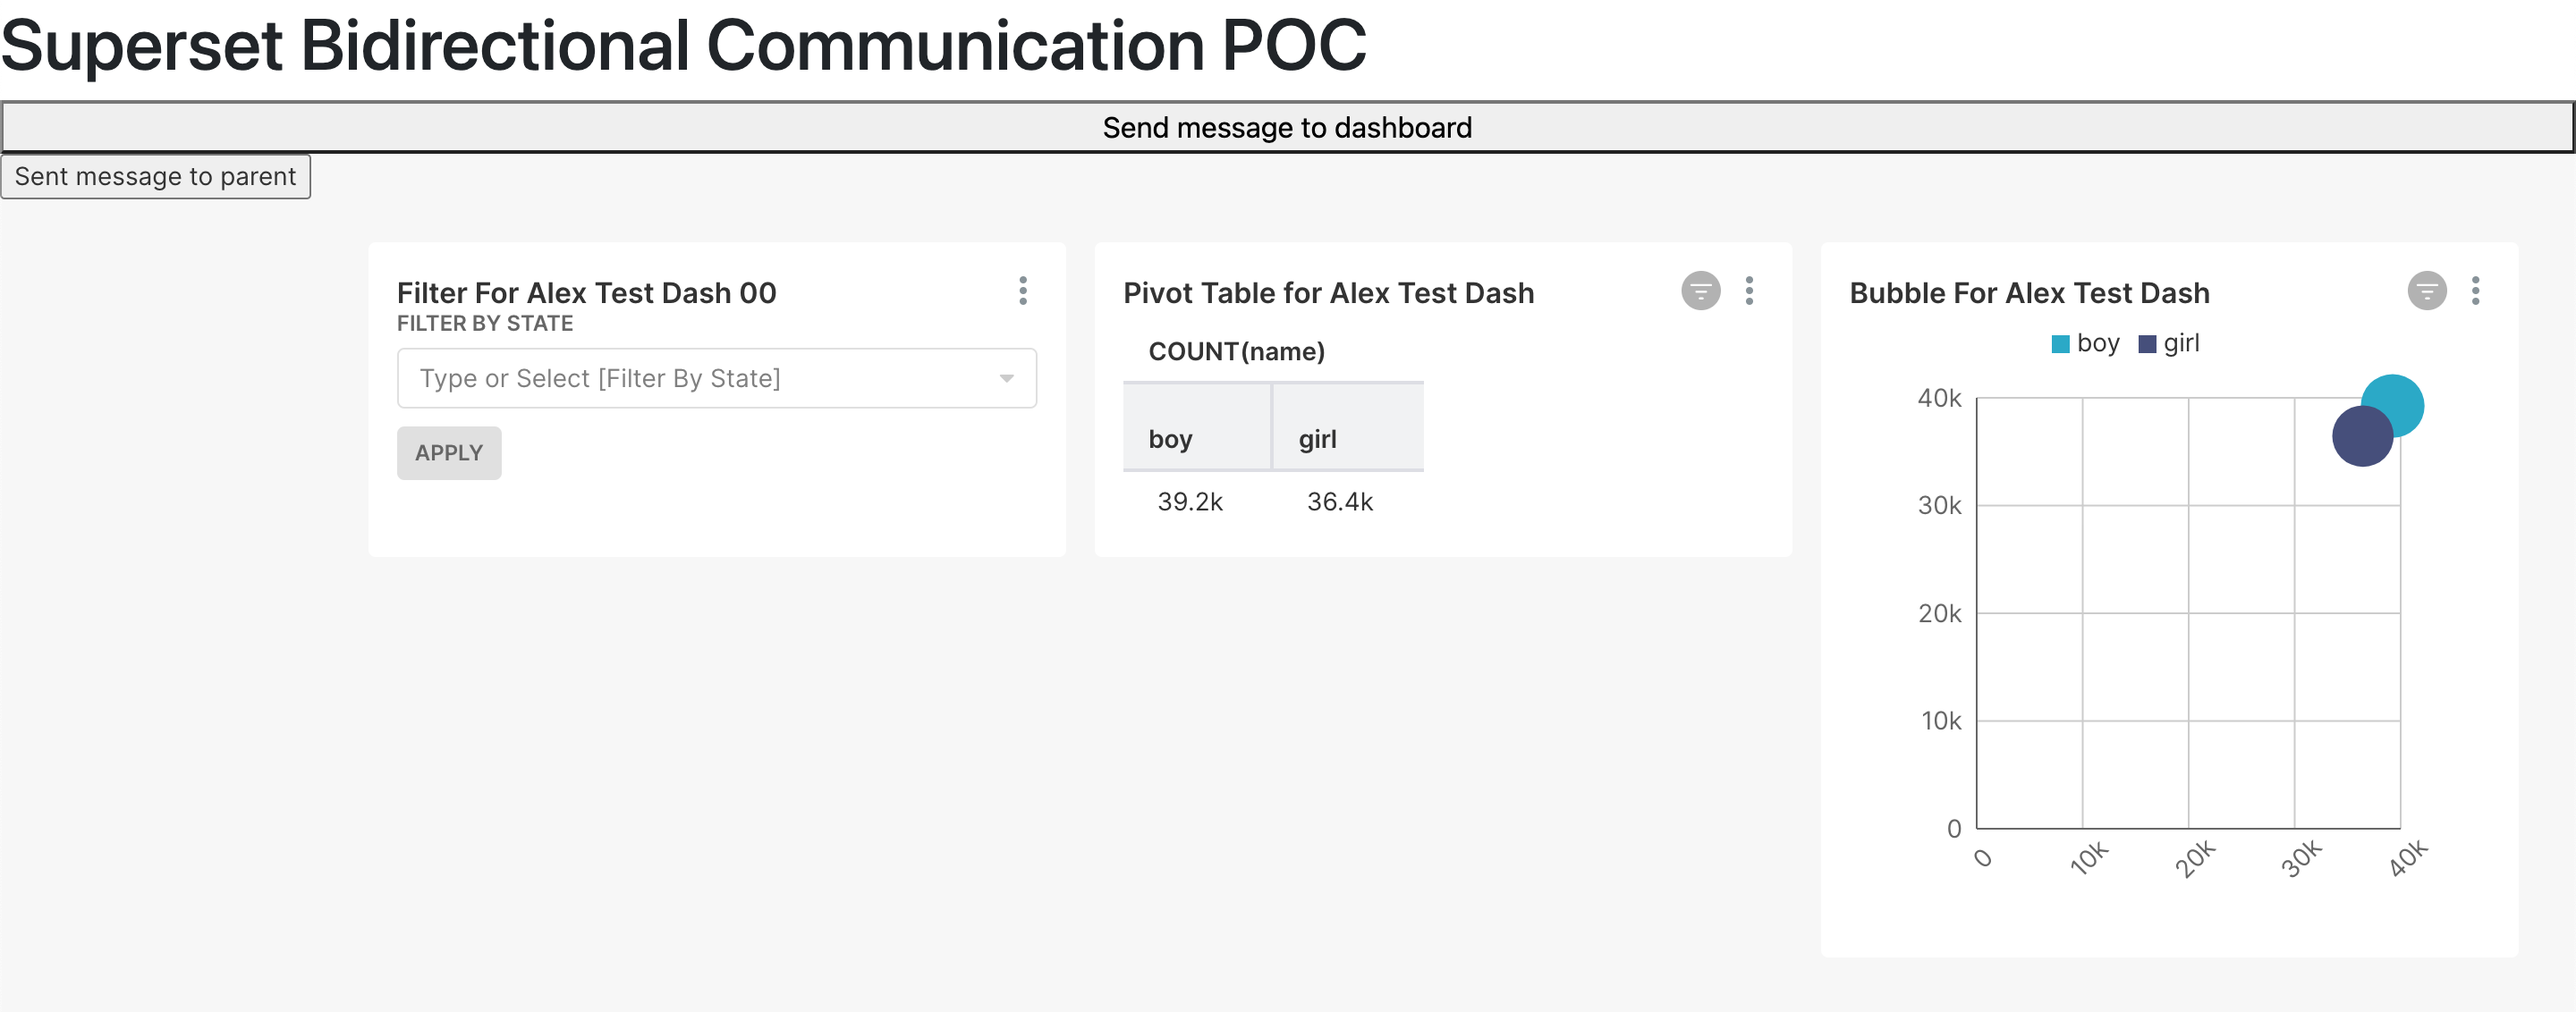
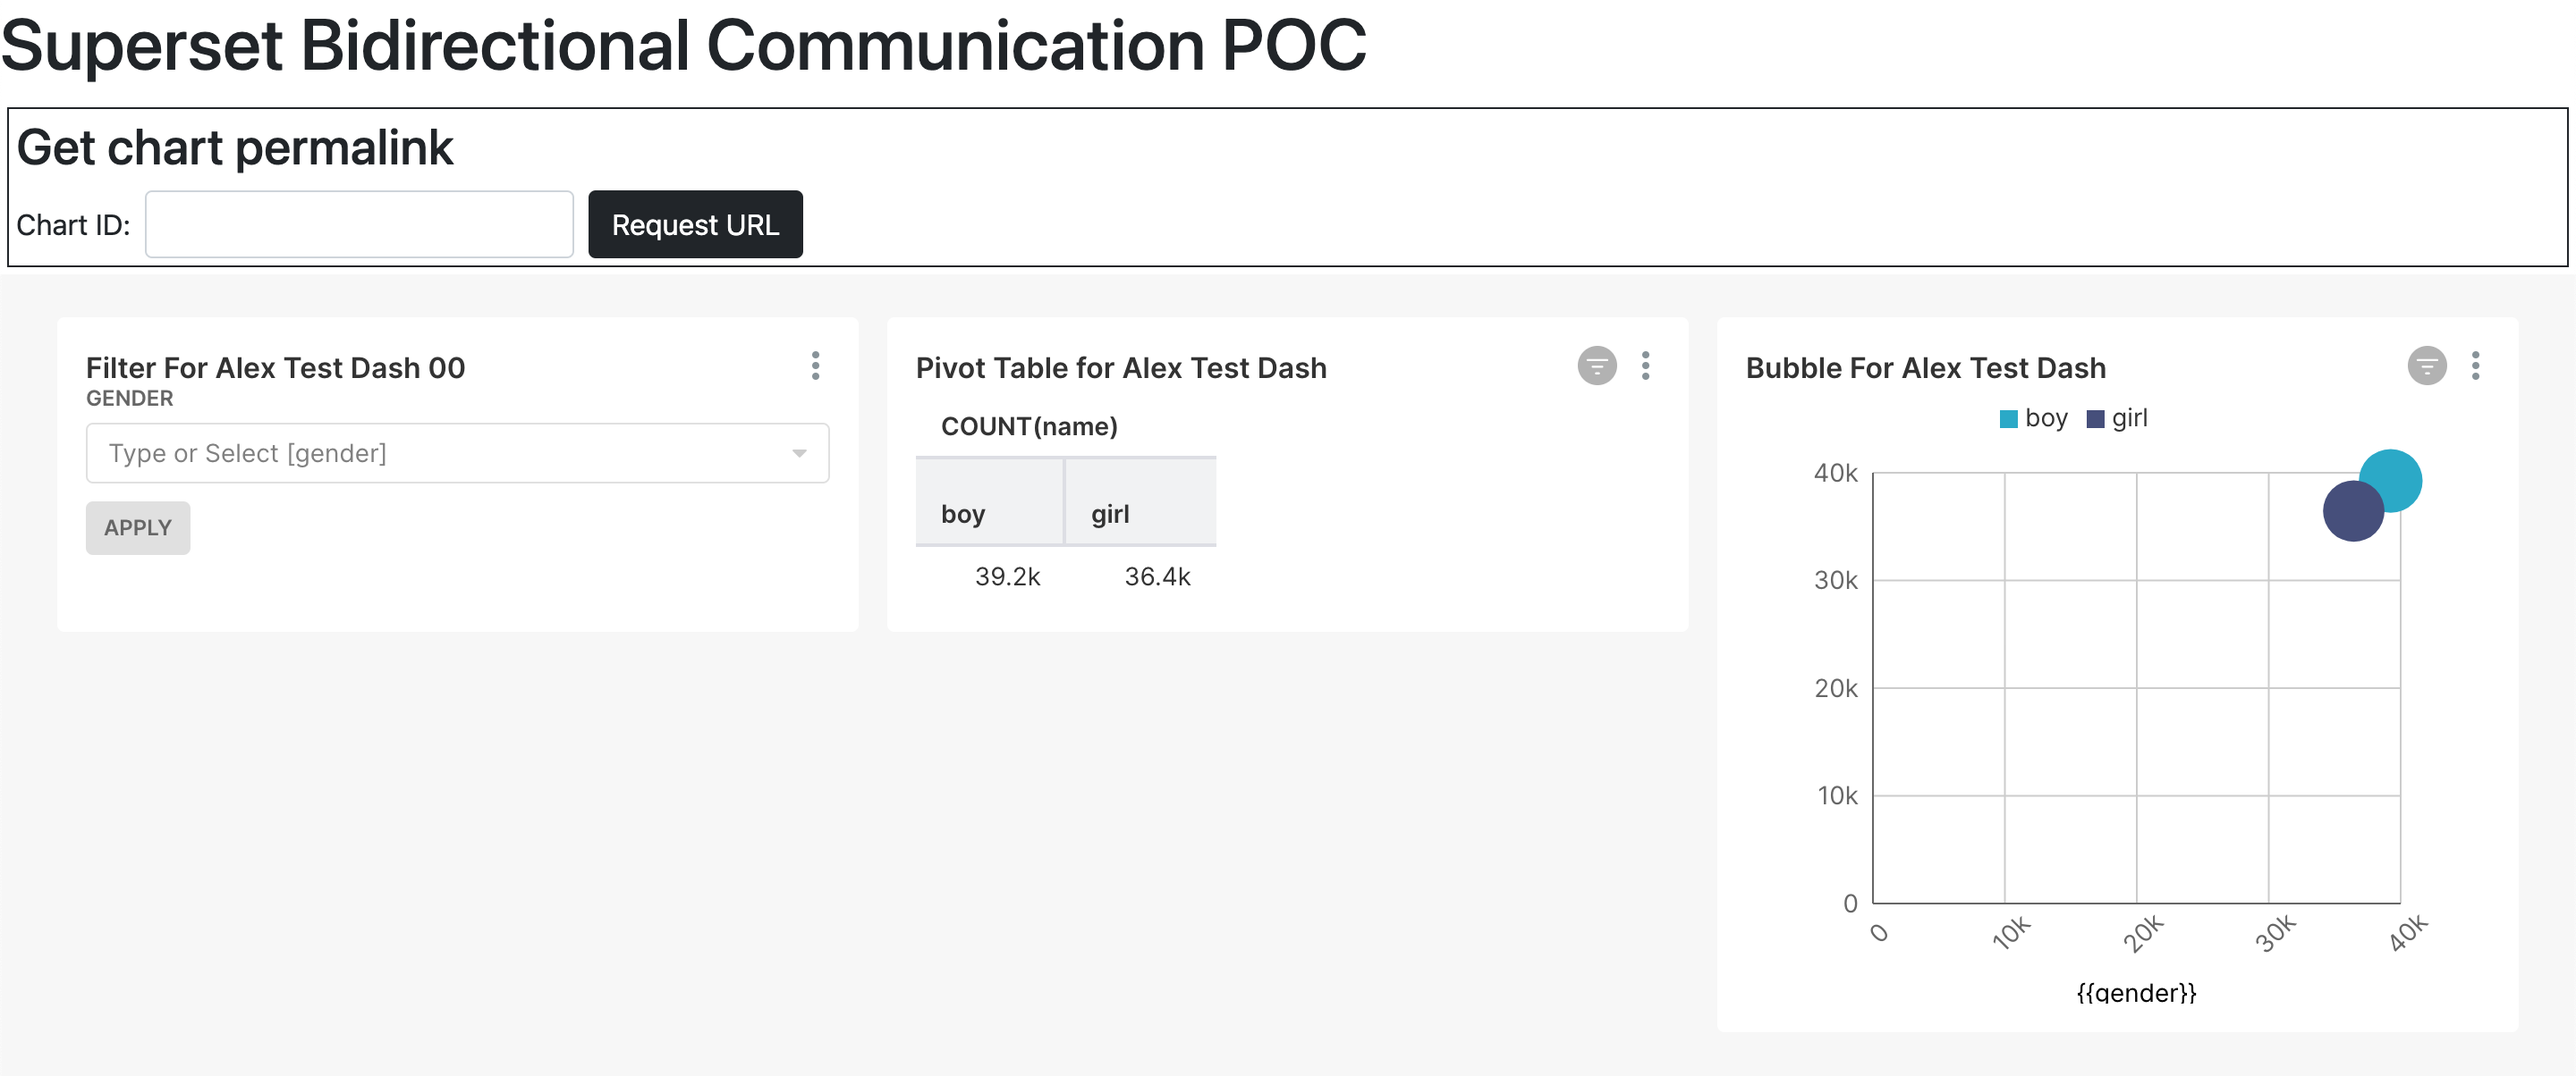
Updates README with instructions for latest version of POC

diff --git a/README.md b/README.md
@@ -4,7 +4,7 @@
 
 ## Overview
 
-This project exists by client request to explore the limits of bidirectional communication between an `<iframe/>`-embedded Superset dashboard and the hosting application in which it is embedded.  Per the client's wishes, this is stored in this public repo on my personal Github.  It is intended to be used in conjunction with [its sister application: a forked Superset repo modified to interact with this repo](https://github.com/anied/superset-iframe-poc-embedded-app/tree/iframe-poc-changes).
+This project exists by client request to ~~explore the limits of bidirectional communication between an `<iframe/>`-embedded Superset dashboard and the hosting application in which it is embedded.~~ (**UPDATE: As the <abbr title="Proof of concept">POC</abbr> developed, a new goal was identified-- creating a POC of allowing request of a chart permalink from the host application to the embedded `<iframe>` using the Superset-idiomatic approach of leveraging the [Superset `Switchboard`](https://github.com/apache/superset/blob/cb2ffa530f79033716fd719f6798eec049a4dd57/superset-frontend/packages/superset-ui-switchboard/src/switchboard.ts)**).  Per the client's wishes, this is stored in this public repo on my personal Github.  It is intended to be used in conjunction with [its sister application: a forked Superset repo modified to interact with this repo](https://github.com/anied/superset-iframe-poc-embedded-app/tree/iframe-poc-changes).
 
 Please note:
 
@@ -22,9 +22,9 @@ This repo is intended to be used in conjunction with a modified Superset fork.
 1. Clone [the modified Superset fork](https://github.com/anied/superset-iframe-poc-embedded-app/tree/iframe-poc-changes) locally:
 
     `git clone https://github.com/anied/superset-iframe-poc-embedded-app.git`
-1. Checkout the modified branch ([`iframe-poc-changes`](https://github.com/anied/superset-iframe-poc-embedded-app/tree/iframe-poc-changes)):
+1. Checkout the modified branch ([`iframe-poc-changes-switchboard-test`](https://github.com/anied/superset-iframe-poc-embedded-app/tree/iframe-poc-changes-switchboard-test):
 
-    `git checkout iframe-poc-changes`
+    `git checkout iframe-poc-changes-switchboard-test`
 
 1. Install Superset (back end and front end) on your machine
 
@@ -37,11 +37,23 @@ This repo is intended to be used in conjunction with a modified Superset fork.
 1. Follow the instructions shown in the subsequent modal dialog. Copy the dashboard ID as it will be needed in setting up the parent app.  In the "Allowed Domains" text box, enter the domain on which you intend to run the parent app (`localhost:3000` by default).  Save changes.
 
     ![Screenshot of the "embed dashboard" modal dialog open, with `localhost:3000` in the "Allowed Domains" field](/readme_assets/EmbedDashboardModal.png)
+
+#### **Setup Superset's `embedded-sdk`**
+
+For this <abbr title="Proof of concept">POC</abbr> it will be necessary to leverage a locally modified version of Superset's `embedded-sdk` (instead of just leveraging the [`embedded-sdk` currently available on NPM](https://www.npmjs.com/package/@superset-ui/embedded-sdk)).  In this step we will build it-- we will actually connect it when we setup the host application (_this_ application) in the subsequent section.
+
+1. In the terminal, inside your cloned Superset fork, navigate to `<YOUR_REPO_ROOT>/superset-embedded-sdk/`
+1. Run `npm install` to install dependencies
+1. Run `npm run build` to create a distributable build of the codebase
+
 #### **Setup this application**
 
-
+These are instructions for setting up this, the host application.  Assume all terminal commands occur at the top level of this repo directory unless otherwise noted or directed.
 
 1. Run `npm install` to install dependencies
+1. Run `npm link <YOUR_/_PATH_/_TO_/_YOUR_/_LOCAL>/superset-embedded-sdk` to install this dependency from your local (rather than from NPM)
+
+    _(**NOTE:** for reasons not entirely apparent, when `npm link`ing to the local embedded SDK `@superset-ui/switchboard` must be installed as a peer dependency; this is already handled for you in `package.json`.  However, for Production implementations of these concepts, this may not be necessary.)_
 1. Open `.env`, it will look roughly like this:
 
     ```
@@ -61,16 +73,28 @@ This repo is intended to be used in conjunction with a modified Superset fork.
 
 ### Run the app(s) and verify the result
 
-1. If you are not already running the Superset back end and front end, do so now; login to Superset in the browser
+1. If you are not already running the Superset back end and front end, do so now; log in to Superset in the browser
 1. Run `npm start` to start the host app
-1. Open the browser to `localhost:3000` (or whatever you set in `.env`).  You should see the host application and your dashboard nested below it
+1. Open the browser to `localhost:3000` (or whatever you set in `.env`).  You should see the host application and your dashboard nested below it (it may take a moment for the dashboard to fully load)
 
-    ![Host app with embedded dashboard-- text is "Superset Bidirectional Communication POC"](/readme_assets/HostAppWithEmbeddedDashboard.png)
-1. Click the "Send message to dashboard" button; the console should reflect that the dashboard received the message
-1. Click the "Send message to parent" button; the console should reflect that the host frame received the message
+    ![Host app with embedded dashboard-- text is "Superset Bidirectional Communication POC and there is a form beneath it (above the iframe dashboard) titled "Get chart permalink"](/readme_assets/HostAppWithEmbeddedDashboard.png)
+1. If you want to get a permalink to a specific chart in the dashboard using the <abbr title="Proof of concept">POC</abbr>, you'll need to get a chart ID for one of your charts.  One way this can be accomplished is opening the dashboard directly in a separate tab and using the Redux tools to pull it out of `state.position_data` (it will look something like this: `CHART-AZiCabB_Xw`).  If you do this, enter the chart ID in the field now.  However, you can also opt to leave the Chart ID input empty and just request a URL for the dashboard itself.  
+1. Hit the "Request URL" button
+1. After a brief moment, the app should provide you with a generated permalink to the dashboard; verify that this works in another tab
 
+    ![Host app having successfully fetched a URL from the embedded dashboard-- there is an ID entered into the "Chart ID" field and a generated URL is shown below the form; text is "Chart URL is http://localhost:9000/superset/dashboard/p/kpylpGgaKM0/"](/readme_assets/Success.png)
+
+## A few brief words on how this works:
+
+1. Inside of Superset, a few changes are made:
+    + Embedded dashboards are enabled
+    + The code running in `superset-frontend` is updated so that for embedded dashboards a `getUrlByChartId` method is registered with their [`Switchboard`](https://github.com/apache/superset/blob/cb2ffa530f79033716fd719f6798eec049a4dd57/superset-frontend/packages/superset-ui-switchboard/src/switchboard.ts) in which they fetch a URL and return it through the `Switchboard`
+    + The embedded SDK code (which is ultimately run in the context of the host app) creates a `getUrlByChartId` embedded dashboard API method that calls into the iframe using the `Switchboard`
+1. Inside of the host app, the dashboard is embedded in such a way that the returned API is cached and piped into the component for the request URL form.  When the "request" button is clicked, it calls the `getUrlByChartId` method and waits for the promise to resolve with the URL.
 ## A few words on best practices
 
 While some attempt was made to leverage best practices inside the React host app, the ultimate goal was to prove the concepts as requested by the client.  Additionally, very little effort was made to keep the code in the modified Superset fork clean.
 
 Critically, the login/auth flow being used here is inherently insecure and almost certainly not as intended; it was, for the most part, wired up in this way to ease development and avoid needing to go and continuously retrieve a guest token.  **This auth flow should _not_ be recreated verbatim in any deployed environments, _especially_ not in Production and/or customer-facing environments.**
+
+Ultimately, while the concepts are proven in this exercise, do not take for granted that the patterns themselves should be duplicated verbatim; a critical eye to implementation best practices should be taken when reusing this code.
